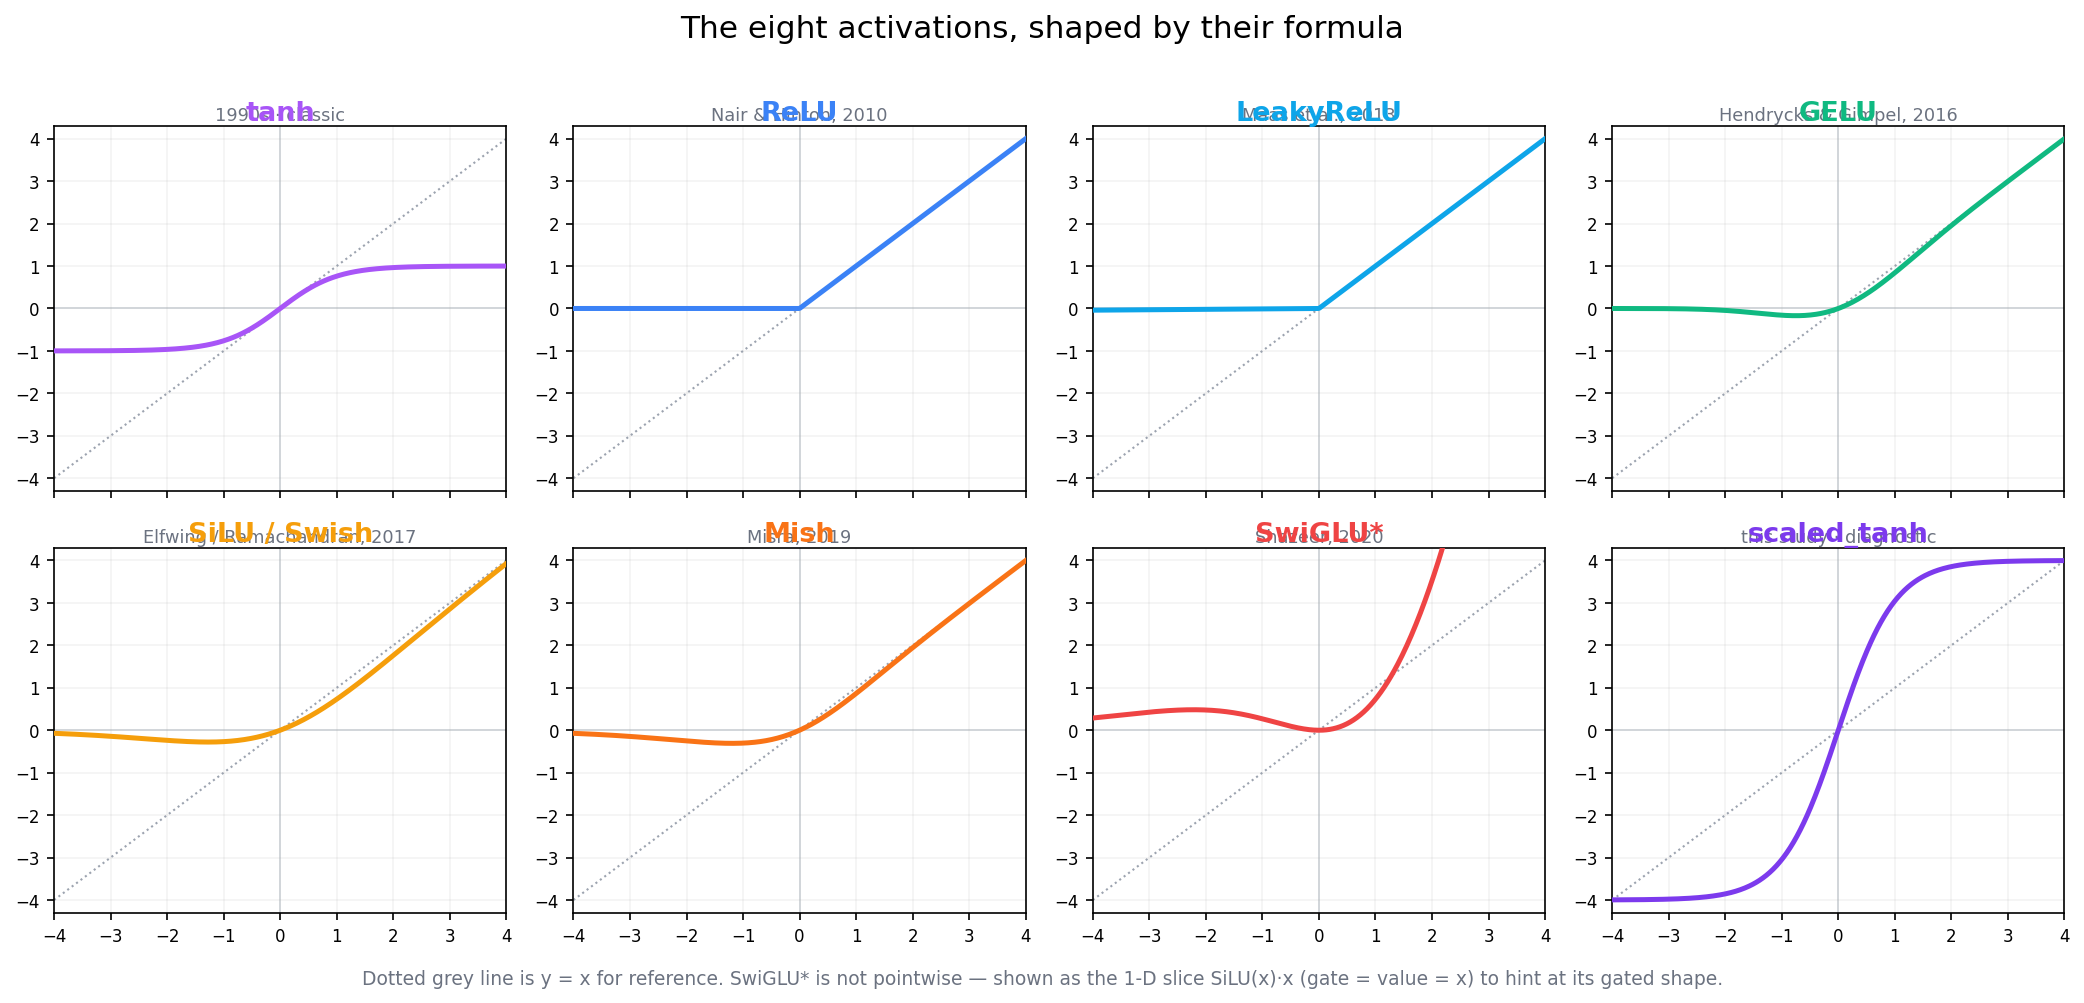
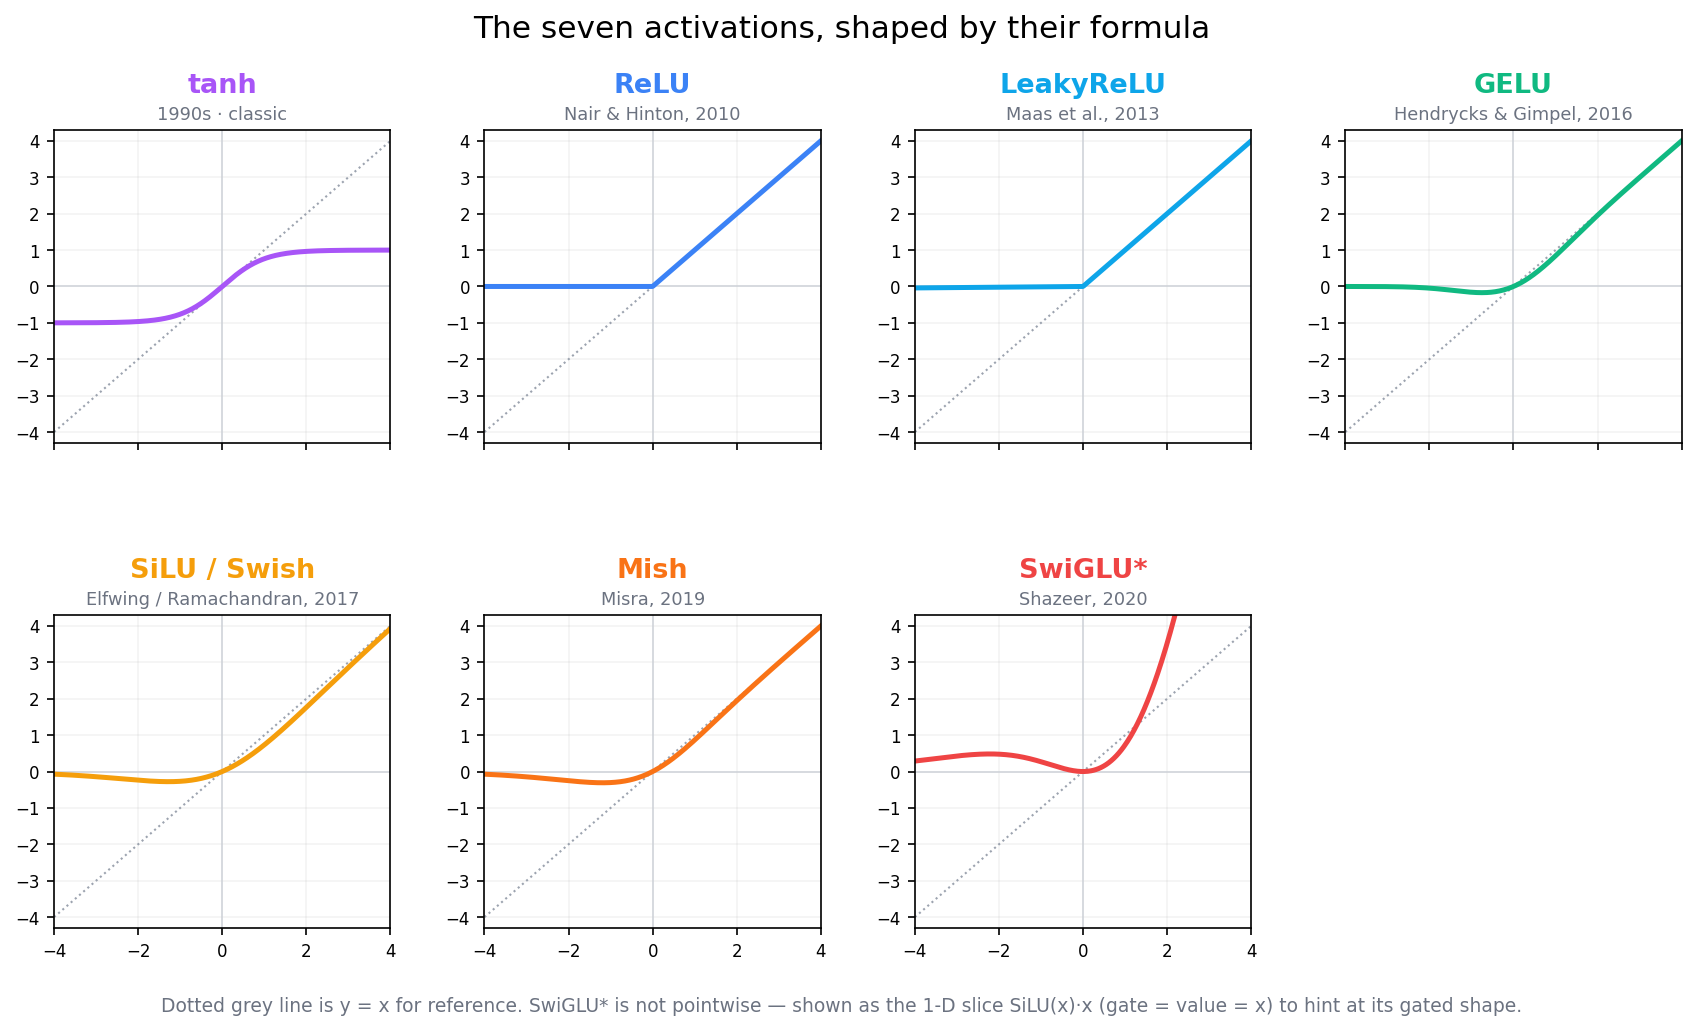
blog: remove scaled_tanh; rebuild mechanism story on gradient-probe sign flip
scaled_tanh was a diagnostic; dropping it collapses the post-std↔rank
correlation (+0.89→+0.14, SwiGLU has highest std yet rank 1), so Finding 5
now reports "not saturation, not vanishing gradient — cause open" and the
mechanism section leans on the BatchNorm gradient-probe sign flip, which
survives. Regenerated curve grid (7 acts, spaced labels), mechanism figure,
and contiguous-rank heatmap.

Claude-Session: https://claude.ai/code/session_01NCUeDtyKCtRxHmb43eD93y

diff --git a/scripts/make_plots.py b/scripts/make_plots.py
@@ -198,6 +198,8 @@ def plot_cross_task_ranking(per_task_summaries: dict, out_dir: Path) -> None:
         _, _, direction = TASK_DISPLAY[task]
         ascending = direction == "min"
         agg = summary.groupby("activation")[best_col].mean()
+        # Only rank activations we actually display, so ranks read contiguously 1..N.
+        agg = agg[agg.index.isin(ACTIVATION_ORDER)]
         rank = agg.rank(ascending=ascending, method="min").astype(int)
         for activation, rank_value in rank.items():
             rows.append({"activation": activation, "task": task, "rank": rank_value, "mean_metric": agg[activation]})
